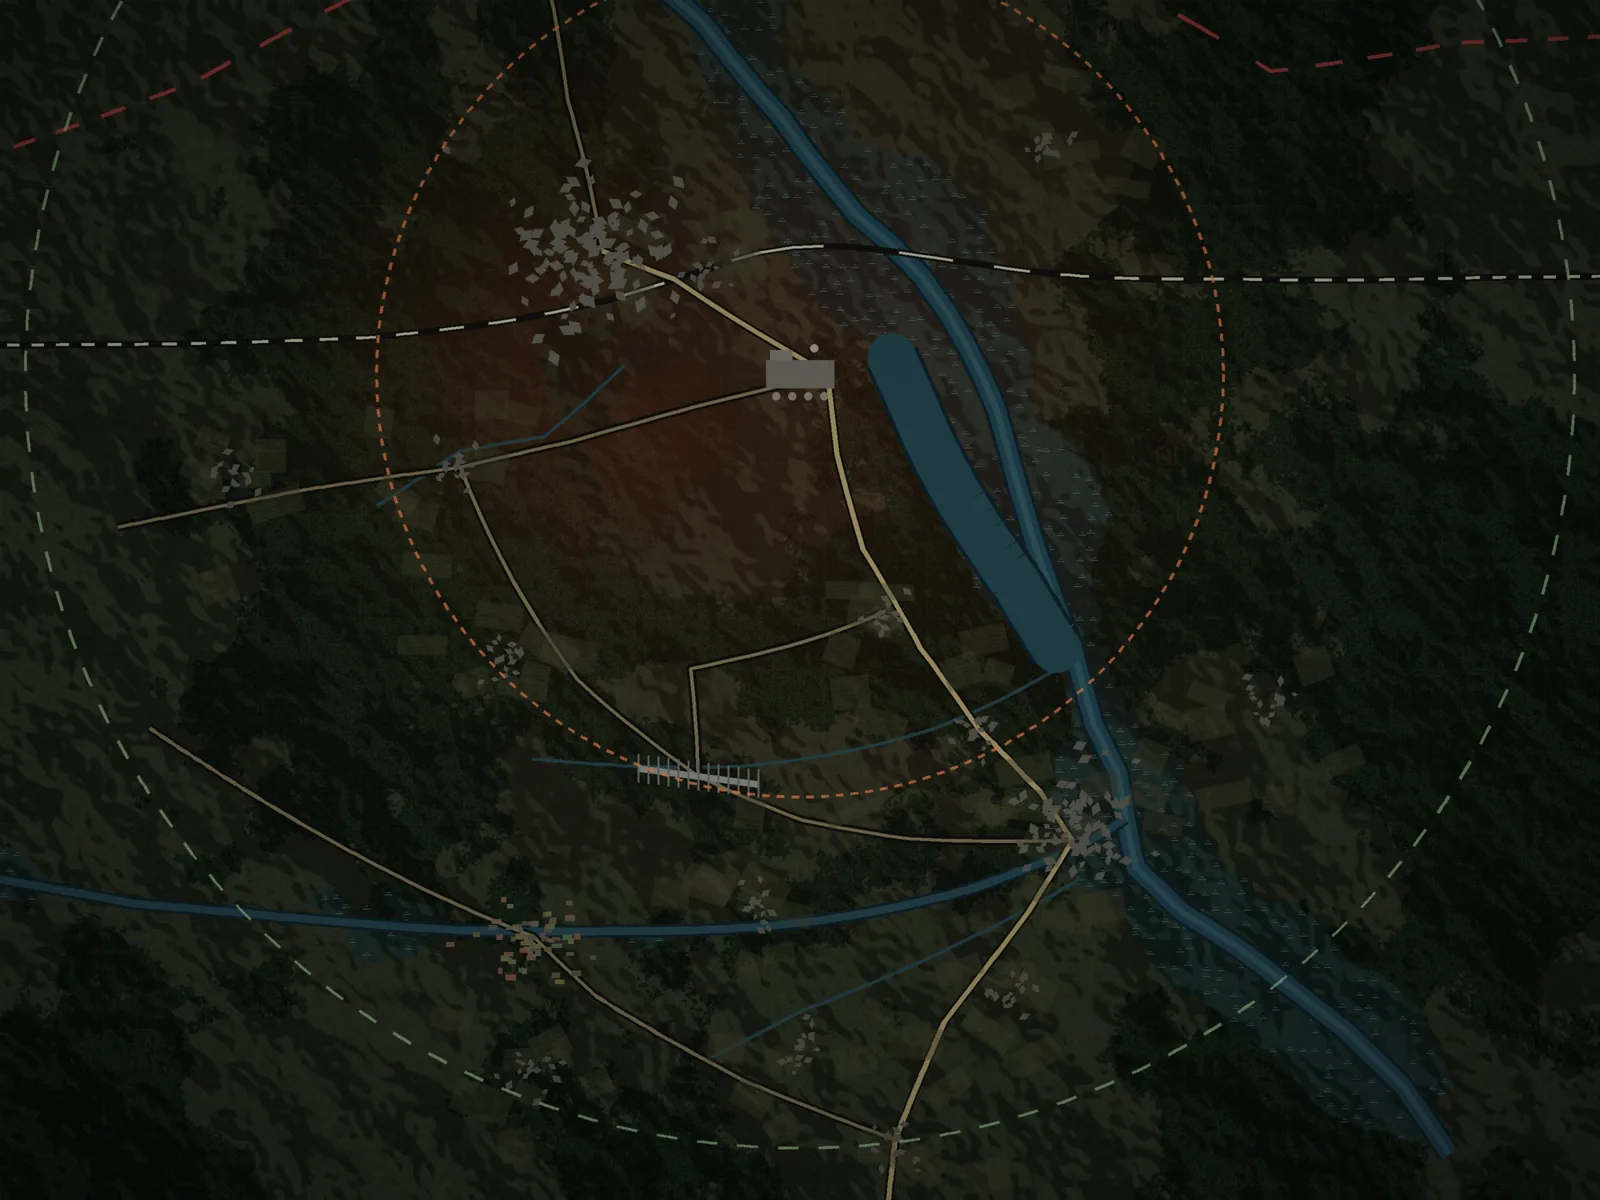
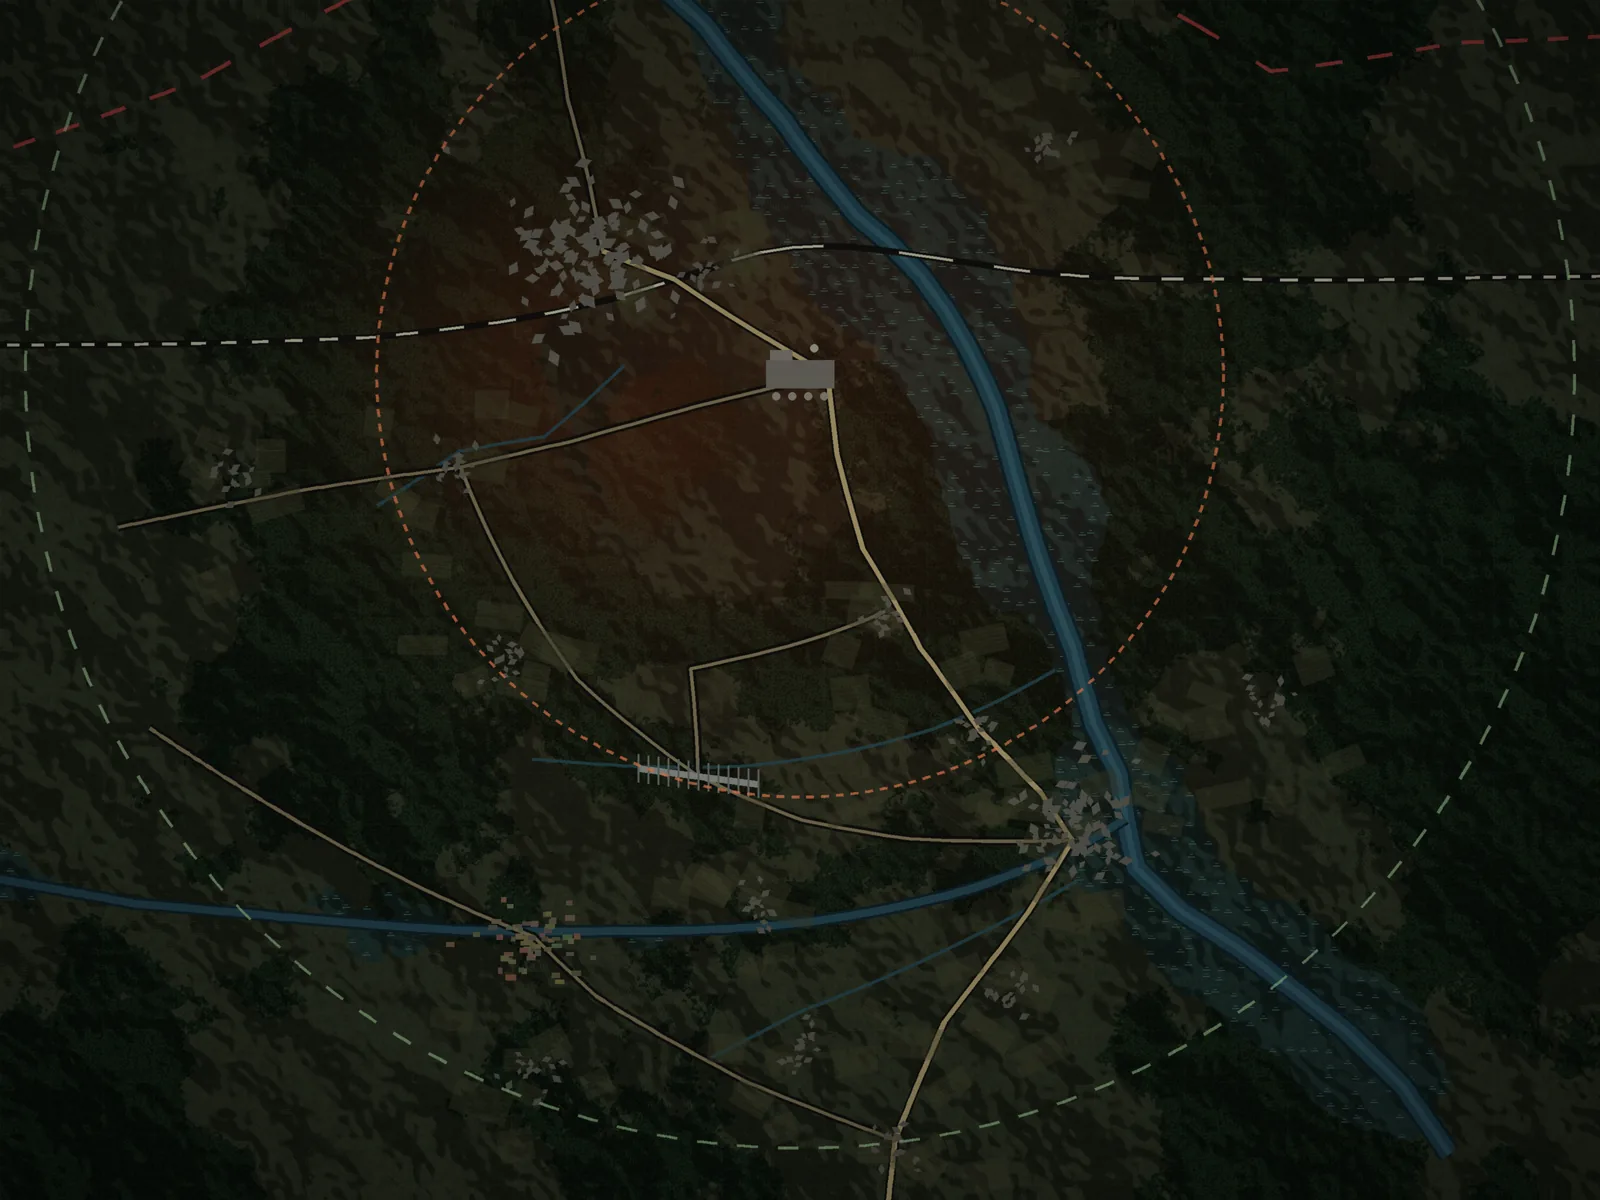
Карта: убран пруд-охладитель
Claude-Session: https://claude.ai/code/session_01HbmgoGh3N5WWDRY4AKRqNX

Changed region(s): [[0.5312, 0.2775, 0.6875, 0.555]]

diff --git a/index.html b/index.html
@@ -773,7 +773,7 @@ document.querySelectorAll('[data-t]').forEach(e=>ruText[e.dataset.t]=e.innerHTML
 const esc=s=>String(s).replace(/[&<>"]/g,c=>({'&':'&amp;','<':'&lt;','>':'&gt;','"':'&quot;'}[c]));
 
 let pick=10;
-const ZL=[[742,175,62,'w',30,'р. Припять','Pripyat river'],[1250,960,52,'w',30,'р. Припять','Pripyat river'],[640,905,-3,'w',26,'р. Уж','Uzh river'],[990,548,62,'w',22,'пруд-охладитель','cooling pond'],[530,392,0,'',22,'Рыжий лес','Red Forest'],[1290,40,-4,'b',30,'БЕЛАРУСЬ','BELARUS'],[905,1178,0,'',22,'на Киев ↓','to Kyiv ↓'],[140,1040,-52,'z',26,'зона отчуждения · 30 км','exclusion zone · 30 km'],[452,146,-38,'r',26,'10 км','10 km']];
+const ZL=[[742,175,62,'w',30,'р. Припять','Pripyat river'],[1250,960,52,'w',30,'р. Припять','Pripyat river'],[640,905,-3,'w',26,'р. Уж','Uzh river'],[530,392,0,'',22,'Рыжий лес','Red Forest'],[1290,40,-4,'b',30,'БЕЛАРУСЬ','BELARUS'],[905,1178,0,'',22,'на Киев ↓','to Kyiv ↓'],[140,1040,-52,'z',26,'зона отчуждения · 30 км','exclusion zone · 30 km'],[452,146,-38,'r',26,'10 км','10 km']];
 function drawMapLbl(){$('#maplbl').innerHTML=ZL.map(z=>`<text x="${z[0]}" y="${z[1]}" font-size="${z[4]}" class="${z[3]}" text-anchor="middle" transform="rotate(${z[2]} ${z[0]} ${z[1]})">${lang==='en'?z[6]:z[5]}</text>`).join('')}
 function drawMap(){drawMapLbl();
   const box=$('#mapbox');box.querySelectorAll('.pt').forEach(e=>e.remove());
